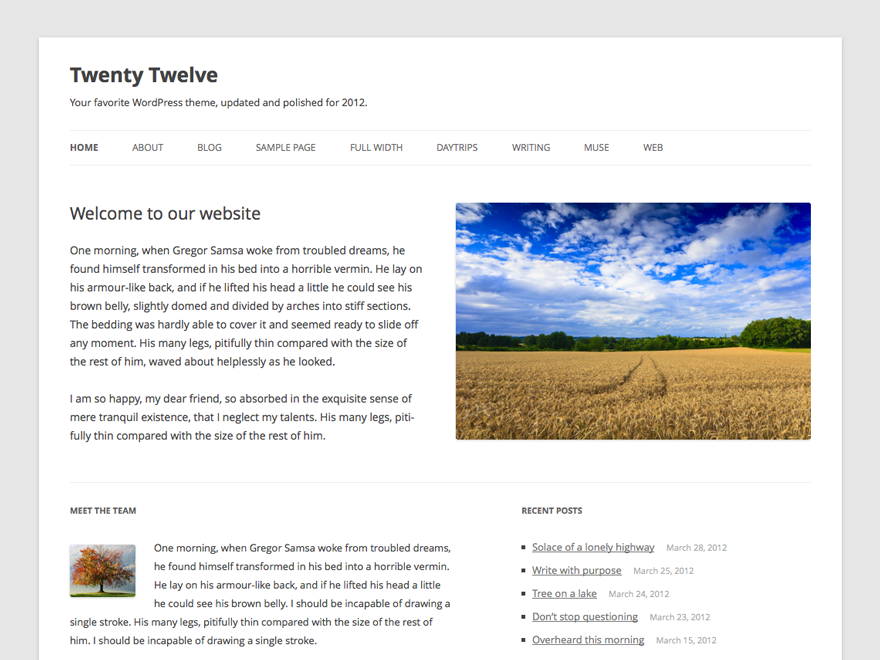
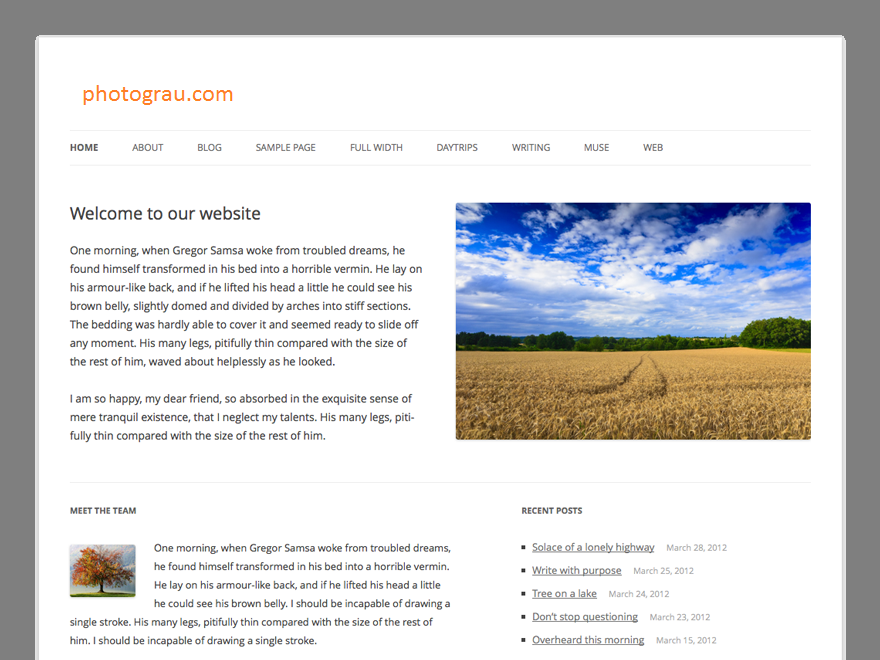
purely topical changes:
styles etc

Changed region(s): [[0.0, 0.0, 1.0, 1.0]]

diff --git a/style.css b/style.css
@@ -305,7 +305,7 @@ input[type="reset"]:active {
 }
 .bypostauthor cite span {
 	color: #fff;
-	background-color: #21759b;
+	background-color: #DD8500;
 	background-image: none;
 	border: 1px solid #1f6f93;
 	border-radius: 2px;
@@ -494,7 +494,7 @@ body.custom-font-enabled {
 }
 a {
 	outline: none;
-	color: #21759b;
+	color: #DD8500;
 }
 a:hover {
 	color: #0f3647;
@@ -525,7 +525,7 @@ a:hover {
 .site {
 	padding: 0 24px;
 	padding: 0 1.714285714rem;
-	background-color: #fff;
+	background-color: #ddd;
 }
 .site-content {
 	margin: 24px 0 0;
@@ -553,7 +553,7 @@ a:hover {
 }
 .site-header h1 a:hover,
 .site-header h2 a:hover {
-	color: #21759b;
+	color: #DD8500;
 }
 .site-header h1 {
 	font-size: 24px;
@@ -592,7 +592,7 @@ a:hover {
 }
 .main-navigation a:hover,
 .main-navigation a:focus {
-	color: #21759b;
+	color: #DD8500;
 }
 .main-navigation ul.nav-menu,
 .main-navigation div.nav-menu > ul {
@@ -646,7 +646,7 @@ section[role="banner"] {
 	color: #757575;
 }
 .widget-area .widget a:hover {
-	color: #21759b;
+	color: #DD8500;
 }
 .widget-area .widget a:visited {
 	color: #9f9f9f;
@@ -675,7 +675,7 @@ footer[role="contentinfo"] a {
 	color: #686868;
 }
 footer[role="contentinfo"] a:hover {
-	color: #21759b;
+	color: #DD8500;
 }
 
 
@@ -721,7 +721,7 @@ footer[role="contentinfo"] a:hover {
 }
 .comments-link a:hover,
 .entry-meta a:hover {
-	color: #21759b;
+	color: #DD8500;
 }
 article.sticky .featured-post {
 	border-top: 4px double #ededed;
@@ -1164,7 +1164,7 @@ article.format-quote .entry-content blockquote {
 	color: #757575;
 }
 .format-status .entry-header header a:hover {
-	color: #21759b;
+	color: #DD8500;
 }
 .format-status .entry-header img {
 	float: left;
@@ -1226,7 +1226,7 @@ article.format-quote .entry-content blockquote {
 	color: #5e5e5e;
 }
 .comments-area article header a:hover {
-	color: #21759b;
+	color: #DD8500;
 }
 .comments-area article header cite a {
 	color: #444;
@@ -1275,7 +1275,7 @@ a.comment-edit-link {
 }
 a.comment-reply-link:hover,
 a.comment-edit-link:hover {
-	color: #21759b;
+	color: #DD8500;
 }
 .commentlist .pingback {
 	line-height: 1.714285714;
@@ -1371,7 +1371,7 @@ a.comment-edit-link:hover {
 	color: #757575;
 }
 .template-front-page .widget-area .widget li a:hover {
-	color: #21759b;
+	color: #DD8500;
 }
 .template-front-page .widget-area .widget_text img {
 	float: left;
@@ -1645,10 +1645,10 @@ img#wpstats {
 		margin-top: 3.428571429rem;
 		margin-bottom: 48px;
 		margin-bottom: 3.428571429rem;
-		box-shadow: 0 2px 6px rgba(100, 100, 100, 0.3);
+		box-shadow: 0 2px 6px rgba(30, 30, 30, 0.3);
 	}
 	body.custom-background-empty {
-		background-color: #fff;
+		background-color: #ddd;
 	}
 	body.custom-background-empty .site,
 	body.custom-background-white .site {
